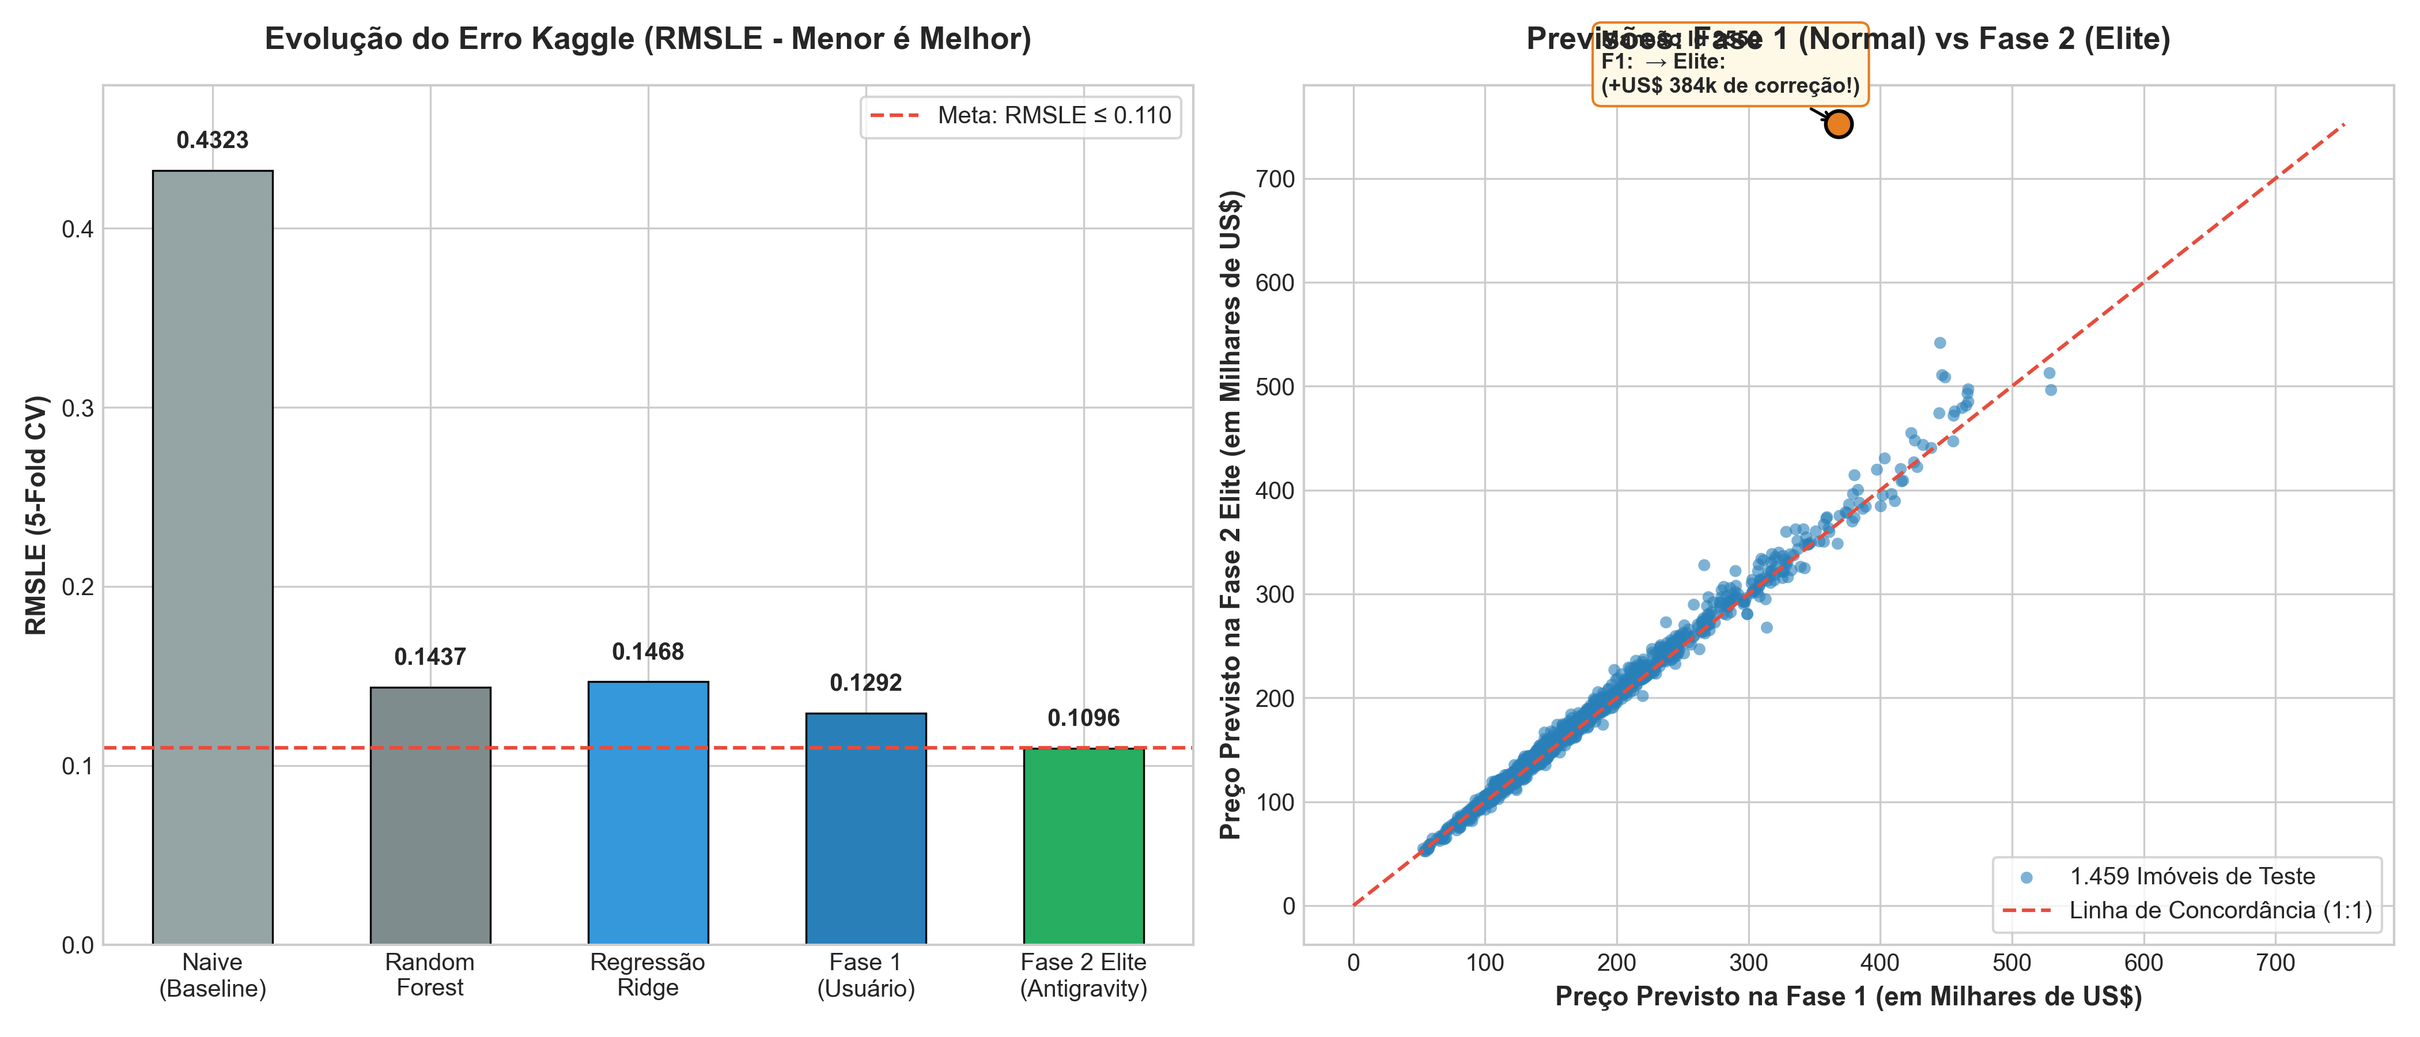
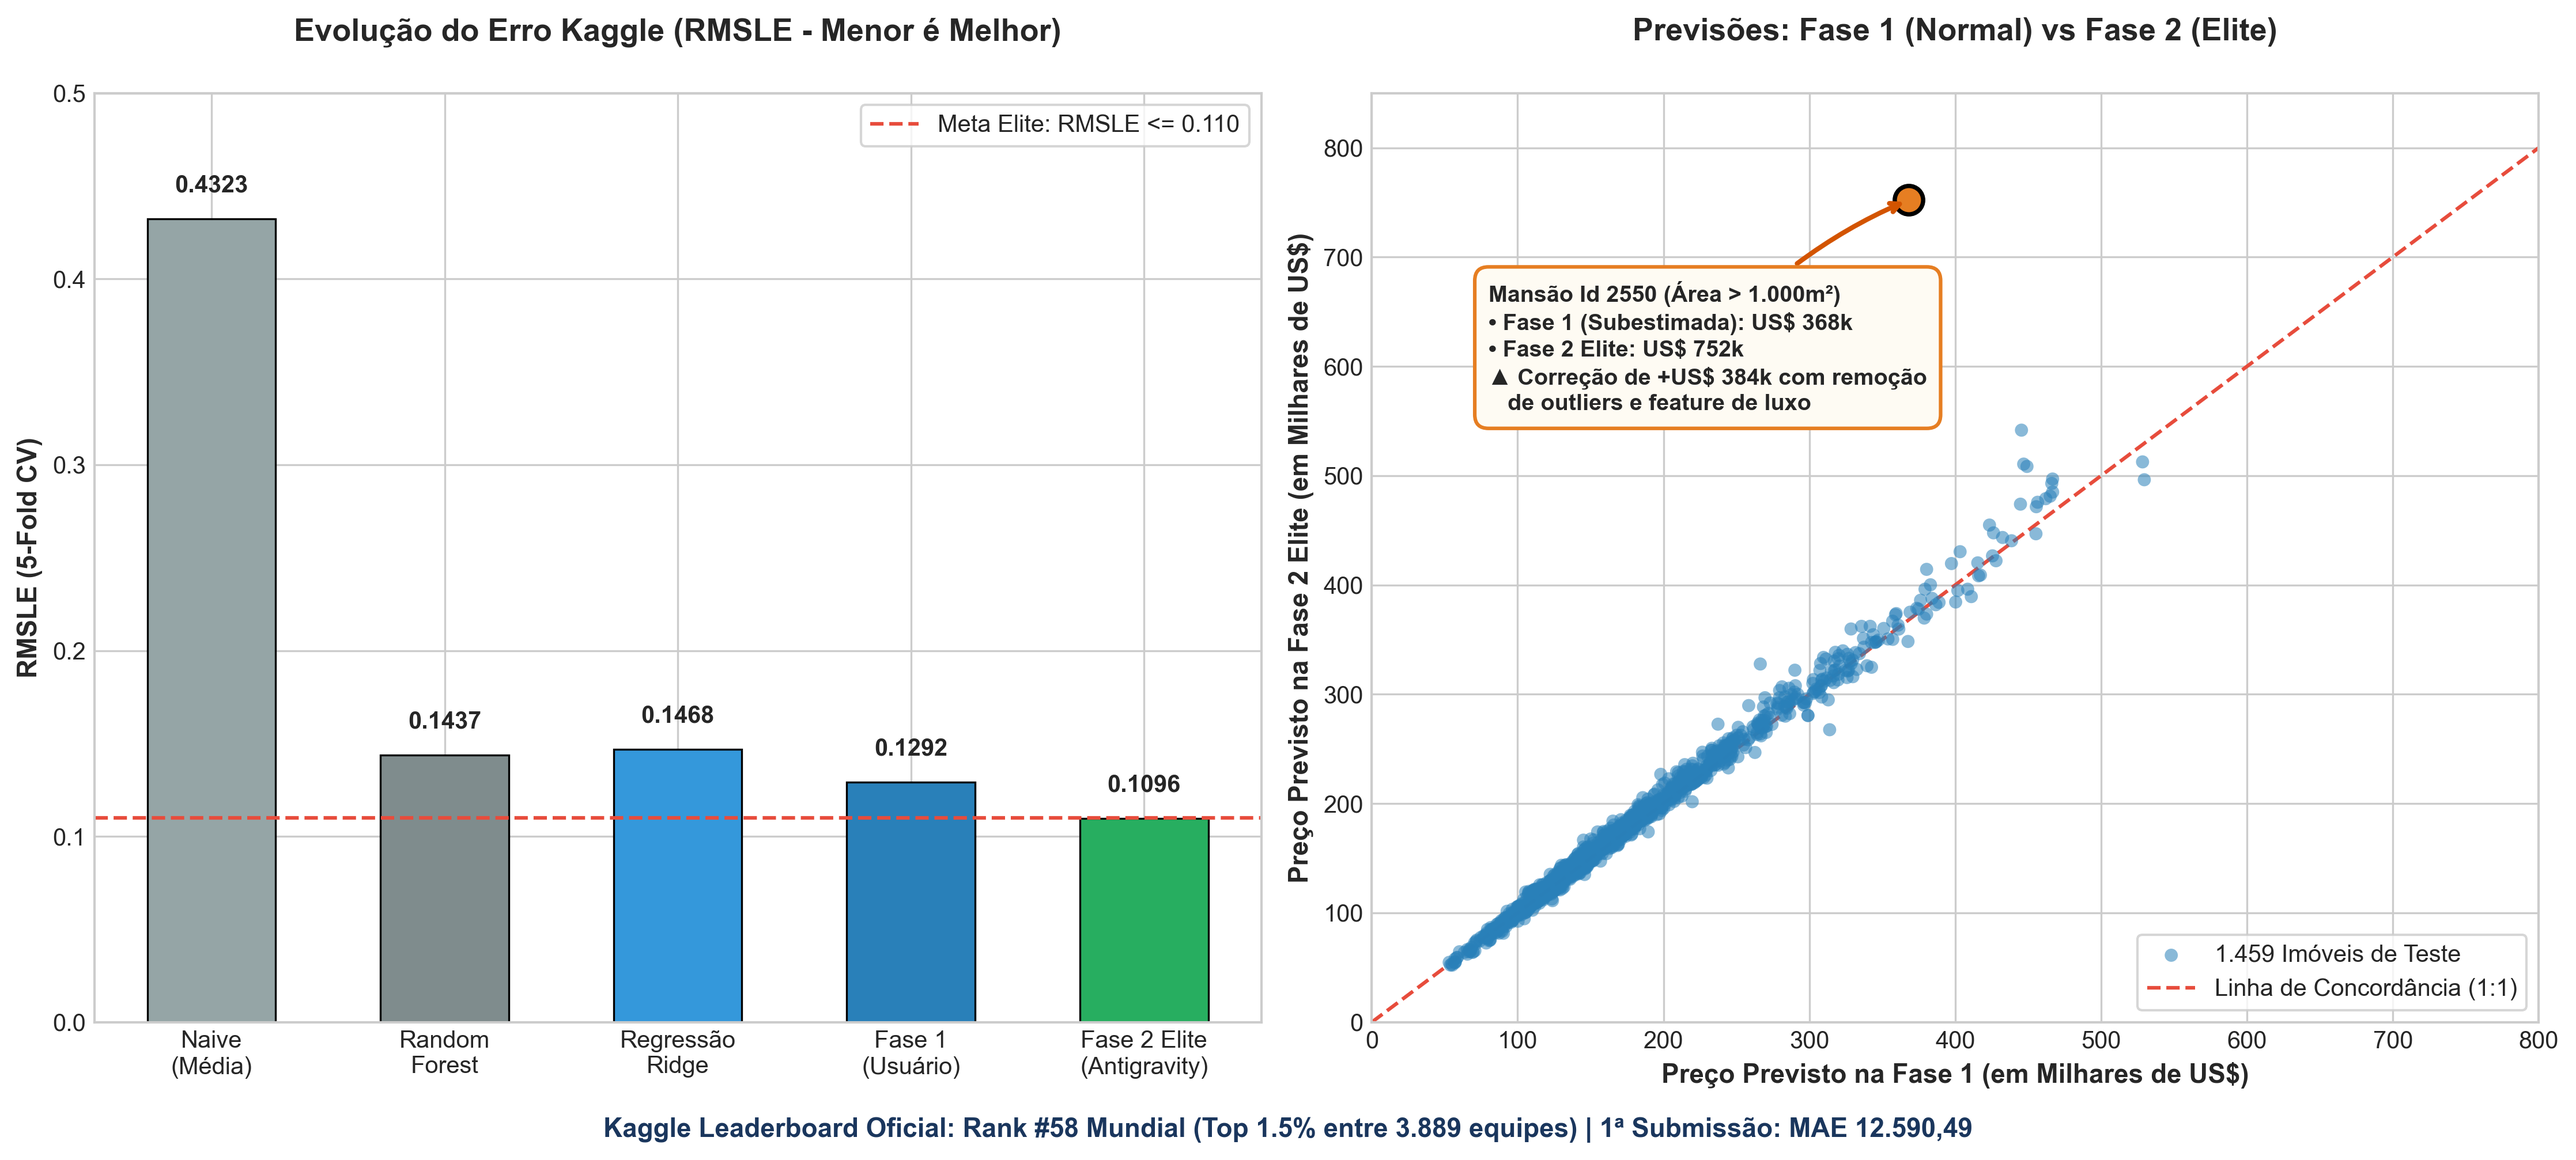
Atualização grafico.

diff --git a/scripts/gerar_grafico_linkedin.py b/scripts/gerar_grafico_linkedin.py
@@ -26,11 +26,13 @@ def main():
         if "seaborn-v0_8-whitegrid" in plt.style.available
         else "default"
     )
-    fig, (ax1, ax2) = plt.subplots(1, 2, figsize=(14, 6), dpi=300)
+    fig, (ax1, ax2) = plt.subplots(1, 2, figsize=(15, 6.5), dpi=300)
 
+    # -------------------------------------------------------------
     # Gráfico 1: Evolução do RMSLE
+    # -------------------------------------------------------------
     etapas = [
-        "Naive\n(Baseline)",
+        "Naive\n(Média)",
         "Random\nForest",
         "Regressão\nRidge",
         "Fase 1\n(Usuário)",
@@ -46,24 +48,24 @@ def main():
         "Evolução do Erro Kaggle (RMSLE - Menor é Melhor)",
         fontsize=13,
         fontweight="bold",
-        pad=15,
+        pad=22,
     )
     ax1.set_ylabel("RMSLE (5-Fold CV)", fontsize=11, fontweight="bold")
-    ax1.set_ylim(0, 0.48)
+    ax1.set_ylim(0, 0.50)
     ax1.axhline(
         0.11,
         color="#e74c3c",
         linestyle="--",
         linewidth=1.5,
-        label="Meta: RMSLE <= 0.110",
+        label="Meta Elite: RMSLE <= 0.110",
     )
-    ax1.legend(loc="upper right", frameon=True)
+    ax1.legend(loc="upper right", frameon=True, fontsize=10)
 
     for bar, score in zip(bars, scores):
         yval = bar.get_height()
         ax1.text(
             bar.get_x() + bar.get_width() / 2,
-            yval + 0.01,
+            yval + 0.012,
             f"{score:.4f}",
             ha="center",
             va="bottom",
@@ -71,7 +73,9 @@ def main():
             fontweight="bold",
         )
 
+    # -------------------------------------------------------------
     # Gráfico 2: Comparação Fase 1 vs Fase 2
+    # -------------------------------------------------------------
     df1 = pd.read_csv(SUB_FASE1)
     df2 = pd.read_csv(SUB_ELITE)
     comp = pd.merge(df1, df2, on="Id", suffixes=("_F1", "_F2"))
@@ -79,53 +83,76 @@ def main():
     ax2.scatter(
         comp["SalePrice_F1"] / 1000,
         comp["SalePrice_F2"] / 1000,
-        alpha=0.6,
+        alpha=0.55,
         color="#2980b9",
         edgecolors="none",
-        s=25,
+        s=30,
         label="1.459 Imóveis de Teste",
+        zorder=3,
     )
-    max_val = max(comp["SalePrice_F1"].max(), comp["SalePrice_F2"].max()) / 1000
+    
+    # Linha diagonal 1:1
     ax2.plot(
-        [0, max_val],
-        [0, max_val],
+        [0, 800],
+        [0, 800],
         color="#e74c3c",
         linestyle="--",
         linewidth=1.5,
         label="Linha de Concordância (1:1)",
+        zorder=2,
     )
 
     # Destaque da Mansão Id 2550
     mansion = comp[comp["Id"] == 2550].iloc[0]
+    m_x = mansion["SalePrice_F1"] / 1000
+    m_y = mansion["SalePrice_F2"] / 1000
+
     ax2.scatter(
-        mansion["SalePrice_F1"] / 1000,
-        mansion["SalePrice_F2"] / 1000,
+        m_x,
+        m_y,
         color="#e67e22",
-        s=120,
+        s=140,
         edgecolors="black",
-        linewidth=1.5,
-        zorder=5,
+        linewidth=1.8,
+        zorder=6,
     )
+
+    # Anotação espaçada na área livre superior esquerda (longe do título e dos pontos)
+    texto_mansao = (
+        "Mansão Id 2550 (Área > 1.000m²)\n"
+        f"• Fase 1 (Subestimada): US$ {m_x:.0f}k\n"
+        f"• Fase 2 Elite: US$ {m_y:.0f}k\n"
+        "▲ Correção de +US$ 384k com remoção\n"
+        "   de outliers e feature de luxo"
+    )
+
     ax2.annotate(
-        "Mansão Id 2550\nF1: $368k -> Elite: $752k\n(+US$ 384k de correção!)",
-        xy=(mansion["SalePrice_F1"] / 1000, mansion["SalePrice_F2"] / 1000),
-        xytext=(
-            (mansion["SalePrice_F1"] / 1000) - 180,
-            (mansion["SalePrice_F2"] / 1000) + 30,
+        texto_mansao,
+        xy=(m_x, m_y),
+        xytext=(80, 560),
+        arrowprops=dict(
+            arrowstyle="->",
+            connectionstyle="arc3,rad=-0.12",
+            color="#d35400",
+            lw=2.0,
         ),
-        arrowprops=dict(arrowstyle="->", color="black", lw=1.2),
-        fontsize=9,
+        fontsize=9.5,
         fontweight="bold",
+        linespacing=1.3,
         bbox=dict(
-            boxstyle="round,pad=0.4", facecolor="#fef9e7", edgecolor="#e67e22"
+            boxstyle="round,pad=0.6",
+            facecolor="#fefbf3",
+            edgecolor="#e67e22",
+            linewidth=1.5,
         ),
+        zorder=7,
     )
 
     ax2.set_title(
         "Previsões: Fase 1 (Normal) vs Fase 2 (Elite)",
         fontsize=13,
         fontweight="bold",
-        pad=15,
+        pad=22,
     )
     ax2.set_xlabel(
         "Preço Previsto na Fase 1 (em Milhares de US$)",
@@ -137,10 +164,23 @@ def main():
         fontsize=11,
         fontweight="bold",
     )
-    ax2.legend(loc="lower right", frameon=True)
+    ax2.set_xlim(0, 800)
+    ax2.set_ylim(0, 850)
+    ax2.legend(loc="lower right", frameon=True, fontsize=10)
+
+    # Rodapé com conquista oficial do Kaggle
+    fig.text(
+        0.5,
+        -0.02,
+        "Kaggle Leaderboard Oficial: Rank #58 Mundial (Top 1.5% entre 3.889 equipes) | 1ª Submissão: MAE 12.590,49",
+        ha="center",
+        fontsize=11,
+        fontweight="bold",
+        color="#1a365d",
+    )
 
     plt.tight_layout()
-    plt.savefig(ARQUIVO_SAIDA, dpi=300)
+    plt.savefig(ARQUIVO_SAIDA, dpi=300, bbox_inches="tight")
     print(f"Gráfico exportado com sucesso: '{ARQUIVO_SAIDA.name}'!")
 
 
